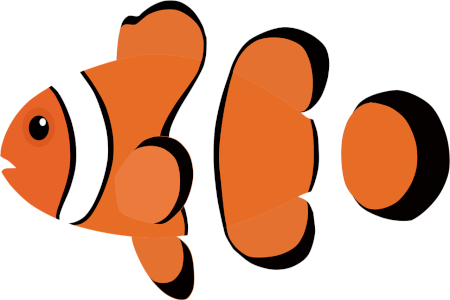
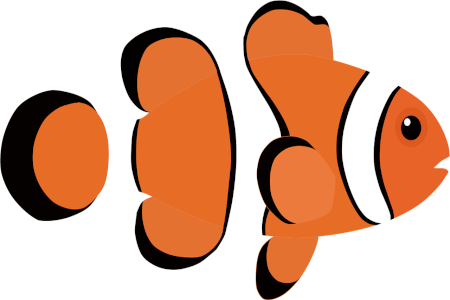
Add rotation to fish animations and other minor fixes

diff --git a/js/aquariumAnimation.js b/js/aquariumAnimation.js
@@ -1,8 +1,9 @@
 $(document).ready(function() {
 
-    // give all .svg fishes a random color
+    // give all fishes using a .svg instead of an image a random color
     $('.fish svg').each(function() {
-        var randomColor = "#" + Math.floor(Math.random()*16777215).toString(16); // sweet mother of god
+        // generates a random 24-bit number and converts it to hex
+        var randomColor = "#" + Math.floor(Math.random() * 16777215).toString(16);
         $(this).css('fill', randomColor);
     });
 
@@ -10,11 +11,11 @@ $(document).ready(function() {
     $('.fish').each(function() {
         var pos = getNewPos();
         
-        $(this).css('left', pos[1]);
-        $(this).css('top', pos[0]);
+        $(this).css('left', pos[0]);
+        $(this).css('top', pos[1]);
     });
 
-    animateFish();
+    $('.fish').each(function() { animateFish($(this)); });
 });
 
 // generates a new random position for a fish within the aquarium's bounds
@@ -24,27 +25,55 @@ function getNewPos() {
     nh = Math.floor(Math.random() * h);
     nw = Math.floor(Math.random() * w);
     
-    return [nh,nw];
+    return [nw,nh];
 }
 
-// continually generate new random positions for each fish and
-// animate their movements to those positions
-function animateFish() {
-    $('.fish').each(function() {
-        var pos = getNewPos();
-        var duration = Math.max(Math.random() * 8000, 5000);
-        var delay = Math.max(Math.random() * 3000, 500);
+// find the angle of the vector between two positions in degrees
+function getAngleBetweenPoints(p1, p2) {
+    var dx = p2[0] - p1[0];
+    var dy = p2[1] - p1[1];
+    var angle = Math.floor(Math.atan2(dy, dx) * (180 / Math.PI));
+    console.log("angle: " + (((angle + 180) % 360) - 180));
+    return ((angle + 180) % 360) - 180;
+}
 
-        $(this).delay(Math.floor(Math.random() * 3000)).animate(
-            { top: pos[0], left: pos[1] }, 
+// continually generate new random positions for each fish
+// and animate their movements to those positions
+// while also rotating the fish to match the movement
+function animateFish(fish) {
+        var newPos = getNewPos();
+        var duration = Math.max(Math.random() * 8000, 5000);
+        var rotationDuration = Math.max(Math.random() * 3, 1.5);
+        // make sure that rotation is done when fish starts moving
+        var delay = Math.max(Math.random() * 3000, rotationDuration * 1000);
+        var angle = getAngleBetweenPoints([fish.position().left, fish.position().top], newPos);
+        
+        // if the fish must turn over 180 degrees, flip it instead
+        if (angle > 90 || angle < -90) {
+            flipTransform = " scaleX(-1)";
+            angle -= 180;
+        }
+        else {
+            flipTransform = "";
+        }
+
+        // get the fish div's image child, since rotating the div itself
+        // looks weird for some reason
+        fish.children("img:first").css( { 
+            transition: ("transform " + rotationDuration + "s"),
+            transitionDelay: (delay / 2000 + "s"),
+            transform:  "rotate(" + angle + "deg)" + flipTransform
+        });
+
+        fish.delay(delay)
+        .animate(
+            { top: newPos[1], left: newPos[0] }, 
             {
                 duration: duration,
                 easing: "swing",
                 complete:function() {
-                    animateFish();
+                    animateFish(fish);
                 }
             }
-        )
-    });
-    
+        )    
 };

diff --git a/css/style.css b/css/style.css
@@ -150,7 +150,8 @@ header, footer {
 
 div.newFish{
     position: relative;
-    margin : 40px auto; 
+    margin : 40px auto;
+    display: block;
 }
 
 

diff --git a/php/adminfish.php b/php/adminfish.php
@@ -78,6 +78,12 @@ $indexphp = '';
     </header>
 
     <main>
+        <!--Addes the "Add New Fish Button"-->
+        <a href="#addFishModal" class="btn btn-success newFish" style="display: block; width: 160px; margin: 40px auto;" data-toggle="modal">
+            <i class="material-icons">&#xE147;</i>
+            <span>Add New Fish</span>
+        </a>
+
         <!--Addes the Filter-Dropdown-->
     
             <nav class="filter-nav">
@@ -108,13 +114,7 @@ $indexphp = '';
                 <li><input type="number" id="addprice" name="addprice" hidden></li>
                 <li><button type="submit" id="add" class="btn btn-outline-dark mt-auto" hidden>Add</button></li>
             </ul>
-        </form>
-
-        <!--Addes the "Add New Fish Button"-->
-        <div class="col-sm-6 newFish">
-            <a href="#addFishModal" class="btn btn-success" data-toggle="modal"><i class="material-icons">&#xE147;</i> <span>Add New Fish</span></a>
-        </div>
-
+        </form> 
 
         <!-- AddFishModal HTML -->
         <div id="addFishModal" class="modal fade text-primary right-side">

diff --git a/php/aquarium.php b/php/aquarium.php
@@ -55,7 +55,7 @@ $link_user_id = $params['user'];
     <link rel="stylesheet" href="../css/style.css">
     <link rel="stylesheet" href="https://cdn.jsdelivr.net/npm/bootstrap-icons@1.5.0/font/bootstrap-icons.css">
     <link rel="icon" type="x-icon" href="../favicon.ico">
-    <script src="https://ajax.googleapis.com/ajax/libs/jquery/3.5.1/jquery.min.js"></script>
+    <script src="https://ajax.googleapis.com/ajax/libs/jquery/3.6.0/jquery.min.js"></script>
     <meta name="viewport" content="width=device-width, initial-scale=1">
 </head>
 
